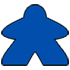
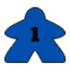
added using of power-ups on players

Changed region(s): [[0.0, 0.0571, 1.0, 0.9429], [0.4286, 0.3714, 0.5714, 0.6]]

diff --git a/game/player.py b/game/player.py
@@ -1,4 +1,6 @@
 import random
+from shutil import move
+import pygame
 from game.constants import SQUARE_SIZE, WIDTH
 
 
@@ -32,11 +34,9 @@ class Player():
         self.rolledNumber = 0
         self.isMoving = False
         self.isWaiting = True
-        self.aligned = False
 
     def rollDice(self):
         self.rolled = True
-        self.playedPower = False
         self.rolledNumber = random.randint(1,6)
         if(self.currentRow % 2 == 1):
             self.endX = self.rect.x + self.rolledNumber*SQUARE_SIZE
@@ -53,8 +53,10 @@ class Player():
         pos_x = x // SQUARE_SIZE
         pos_y = y // SQUARE_SIZE
         self.currentCol = pos_x
+        self.currentRow = pos_y
         self.rect.x = pos_x * SQUARE_SIZE
         self.rect.y = pos_y * SQUARE_SIZE
+        self.aligned = False
 
     def draw(self, win):
         win.blit(self.image, self.rect)
@@ -97,6 +99,59 @@ class Player():
                     powerUpTiles[i].consumed = True
                     self.inventory.append(powerUpTiles[i])
 
+    def calculateJumpTile(self, keyPressed):
+        index = 0
+        if keyPressed == 49: index = 1
+        elif keyPressed == 50: index = 2
+        elif keyPressed == 51: index = 3
+        print('Calculate the number of tiles to be moved here')
+
+        if index > len(self.inventory):
+            return
+
+        powerUp = self.inventory[index-1]
+
+        powerUpValue = powerUp.number
+        movement = SQUARE_SIZE * powerUpValue
+        print(f'Move to x = {self.rect.x + movement}')
+
+        # Check what row is the player currently on
+        nextX = 0
+
+        # When player is in an odd-numbered row
+        if self.currentRow % 2 == 1:
+            nextX = self.rect.x + movement
+            if nextX >= 700:
+                excess = nextX - 700
+                self.rect.y -= SQUARE_SIZE
+                self.rect.x = 700 - (excess + SQUARE_SIZE)
+            elif nextX <= 0:
+                excess = abs(nextX)
+                self.rect.y += SQUARE_SIZE
+                self.rect.x = excess - SQUARE_SIZE
+            else:
+                self.rect.x = nextX
+            self.endX = self.rect.x
+        
+        else:
+            nextX = self.rect.x - movement
+            if nextX <= 0:
+                excess = abs(nextX)
+                self.rect.x = excess - SQUARE_SIZE
+                self.rect.y -= SQUARE_SIZE
+            elif nextX >= 700:
+                excess = nextX - 700
+                self.rect.y += SQUARE_SIZE
+                self.rect.x = excess - SQUARE_SIZE
+            else:
+                self.rect.x = nextX
+            self.endX = self.rect.x
+
+        self.realign()
+
+        # Remove the power-up in the inventory
+        self.inventory.remove(powerUp)
+
     def update(self):
         self.isMoving = True
         self.velX = 0
@@ -125,8 +180,6 @@ class Player():
                 
         # Change direction if row is even-numbered
         if self.currentRow % 2 == 0:
-            # print(f'Current x-coord is: {self.rect.x}')
-            # print(f'Next x-coord is: {self.endX}')
             self.moveUp = False
             self.moveRight = False
             self.moveLeft = True
@@ -134,7 +187,7 @@ class Player():
             for oddY in self.oddY:
                 if self.rect.y in range(oddY, oddY+(SQUARE_SIZE//8)):
                     self.currentRow -= 1
-
+                    
                     # Recalculate endX when changing rows
                     self.endX = abs(self.endX - 0) - SQUARE_SIZE
             if self.rect.x <= 0:
@@ -149,8 +202,10 @@ class Player():
                 self.realign()
                 if len(self.inventory) > 0 and self.isWaiting and self.rolled:
                     print('Waiting for power play')
-                else: 
+                    self.aligned = True
+                else:  
                     self.isMoving = False
+                    return
         elif self.currentRow % 2 == 0:
             if self.rect.x > self.endX:
                 self.rect.x += self.velX
@@ -159,5 +214,9 @@ class Player():
                 self.realign()
                 if len(self.inventory) > 0 and self.isWaiting and self.rolled:
                     print('Waiting for power play')
+                    self.aligned = True
                 else:                  
                     self.isMoving = False
+                    return
+
+        

diff --git a/main.py b/main.py
@@ -4,7 +4,7 @@ import os
 from game.constants import WIDTH, HEIGHT, VIOLET
 from game.field import Field
 from game.player import Player
-from game.functions import renderExtras, renderDiceNumber, renderPlayerInventory, playPowerUp
+from game.functions import renderExtras, renderDiceNumber, renderPlayerInventory, consumePowerUp
 
 pygame.init()
 
@@ -33,11 +33,13 @@ def main():
         playerList.append(newPlayer)
 
     powerUpGroup = pygame.sprite.Group()
+    powerUpHotkeys = [pygame.K_1, pygame.K_2, pygame.K_3]
     for p in field.powerUps:
        powerUpGroup.add(p)
-    run = True
+    playedPowerUp = False
 
     currentPlayer = 1 # Initialize player 1 at start of the game
+    run = True
     while run:
 
         # Reset rendering every loop 
@@ -64,23 +66,27 @@ def main():
                 if event.key == pygame.K_SPACE:
                     # This condition will prevent other players from moving when the currebt player is moving
                     if playerList[currentPlayer - 1].isMoving == False and playerList[currentPlayer - 1].rolled == False:
-                        print('Pressed the space button')
                         playerList[currentPlayer - 1].rollDice()
                         diceNumber = playerList[currentPlayer - 1].rolledNumber
 
                 if event.key == pygame.K_ESCAPE:
-                    if playerList[currentPlayer - 1].rolled and playerList[currentPlayer - 1].isWaiting and len(playerList[currentPlayer - 1].inventory) > 0:
+                    if playerList[currentPlayer - 1].rolled and playerList[currentPlayer - 1].isWaiting and playerList[currentPlayer - 1].aligned and len(playerList[currentPlayer - 1].inventory) > 0:
                         playerList[currentPlayer - 1].isWaiting = False
-                        print('Player has played a power-up')
-                        
+
+                # If player presses 1, 2 or 3, use the corresponding power-up
+                if event.key in powerUpHotkeys:
+                    if playerList[currentPlayer - 1].rolled and playerList[currentPlayer - 1].isWaiting and playerList[currentPlayer - 1].aligned and len(playerList[currentPlayer - 1].inventory) > 0:
+                        playerList[currentPlayer - 1].calculateJumpTile(event.key)
+                        playerList[currentPlayer - 1].isWaiting = False
 
         # Update the dice number text on screen
         if playerList[currentPlayer - 1].isMoving:
             renderDiceNumber(WIN, diceNumber)
         
+        # Render the player's inventory if it is not empty
         if len(playerList[currentPlayer - 1].inventory) > 0:
             renderPlayerInventory(WIN, playerList[currentPlayer - 1])
-            
+        
         playerList[currentPlayer - 1].update()
 
         if(playerList[currentPlayer - 1].rolled == True and playerList[currentPlayer - 1].isMoving == False):

diff --git a/game/field.py b/game/field.py
@@ -28,7 +28,7 @@ def generateField(powerUps):
         field[tile[0]][tile[1]] = 1
 
     # Generate power up tiles
-    powerUpFileNames = ['plus1.png', 'plus2.png', 'plus3.png', 'minus1.png', 'minus2.png', 'minus3.png']
+    powerUpFileNames = ['minus3.png', 'minus2.png', 'minus1.png', 'plus1.png', 'plus2.png', 'plus3.png']
     powerUpNumbers = [-3,-2,-1,1,2,3]
     i = 0
 
@@ -48,17 +48,13 @@ def generateField(powerUps):
         # Details of the powerup
         # Path of the image
         picPath = os.path.join(os.path.dirname(__file__), '..', 'assets', f"{powerUpFileNames[i]}") 
-        
-        # Type of power-up, either plus or minus
-        if powerUpNumbers[i] > 0: powerUpType = 'Plus'
-        else: powerUpType = 'Minus'
 
         # Pixel location of the power-up
         powerUpLocationX = SQUARE_SIZE*powerUpColumn
         powerUpLocationY =  SQUARE_SIZE*powerUpRow
 
         # Add a new instance of power up to the powerUps list
-        powerUps.append(PowerUp(picPath, powerUpType, powerUpNumbers[i], powerUpRow, powerUpColumn, powerUpLocationX, powerUpLocationY))
+        powerUps.append(PowerUp(picPath, powerUpNumbers[i], powerUpRow, powerUpColumn, powerUpLocationX, powerUpLocationY))
         i += 1
     print(field)
 

diff --git a/game/powerUp.py b/game/powerUp.py
@@ -5,14 +5,13 @@ from game.constants import SQUARE_SIZE
 powerUpFileNames = ['plus1.png', 'plus2.png', 'plus3.png', 'minus1.png', 'minus2.png', 'minus3.png']
 
 class PowerUp(sprite.Sprite):
-    def __init__(self, pic_path, type, number, row, col, pos_X, pos_Y):
+    def __init__(self, pic_path, number, row, col, pos_X, pos_Y):
         super().__init__()
         self.image = pygame.image.load(pic_path)
         self.rect = self.image.get_rect()
         self.row = row
         self.col = col
         self.pos = (pos_X, pos_Y)
-        self.type = type
         self.number = number
         self.rect = self.image.get_rect()
         self.consumed = False

diff --git a/game/functions.py b/game/functions.py
@@ -2,6 +2,8 @@ from xml.etree.ElementTree import tostring
 import pygame
 import os
 
+from game.powerUp import PowerUp
+
 def get_font(size):
     fontPath = os.path.join(os.path.dirname(__file__), '..', 'assets', "KB3BusRoute123.ttf") 
     return pygame.font.Font(fontPath, size)
@@ -68,6 +70,9 @@ def renderPlayerInventory(WIN, player):
     PASS_TEXT_POS = PASS_TEXT.get_rect(center=(((700+800) / 2), 670))
     WIN.blit(PASS_TEXT, PASS_TEXT_POS)
 
-def playPowerUp():
-    print('Play a power up')
+def consumePowerUp(WIN, player, keyPressed):
+    index = 0
+    
+    print(f'Key pressed is {index}')
+    print('Remove the power-up here')
 
